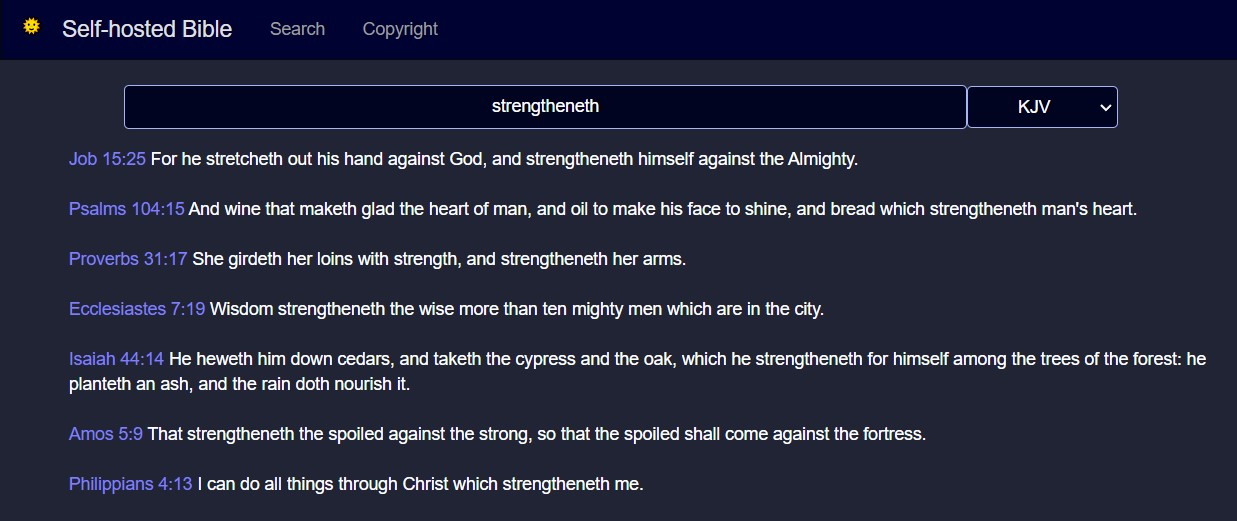
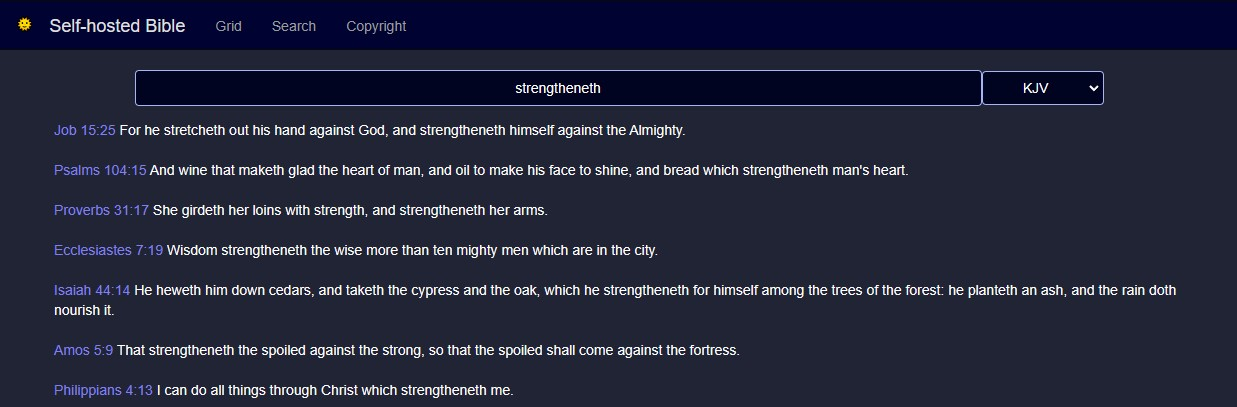
Updated screenshots

diff --git a/README.md b/README.md
@@ -19,8 +19,10 @@ A self-hosted webapp of various Bible versions including the KJV, ESV, and ASV.
 ![Example view of using a single version. The passage is Genesis chapter 1](pictures/single_version.jpg)
 ### Split version reading
 ![Example image of two versions side by side. The example is using the ESV and KJV for the passage Genesis chapter 1](pictures/split_version.jpg)
-### Search (Work in progress)
+### Search 
 ![Example image of Bible searching functionality. The example is using the KJV as the version to be searched.](pictures/search.jpg)
+### Passage Grid
+![Example image of multiple passages being displayed simultaneously.](pictures/grid.jpg)
 
 # Instructions
 
